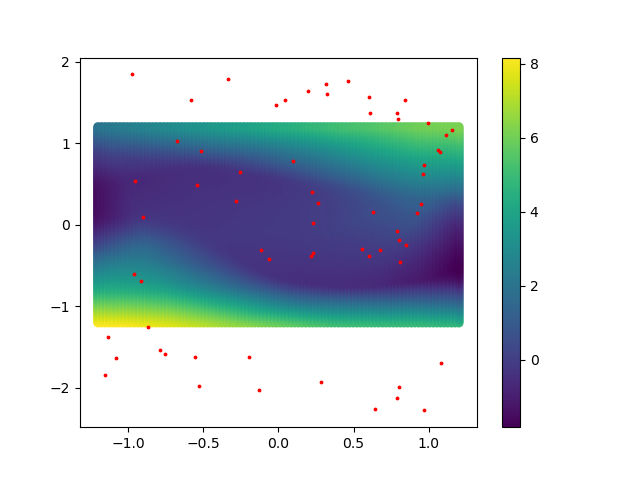
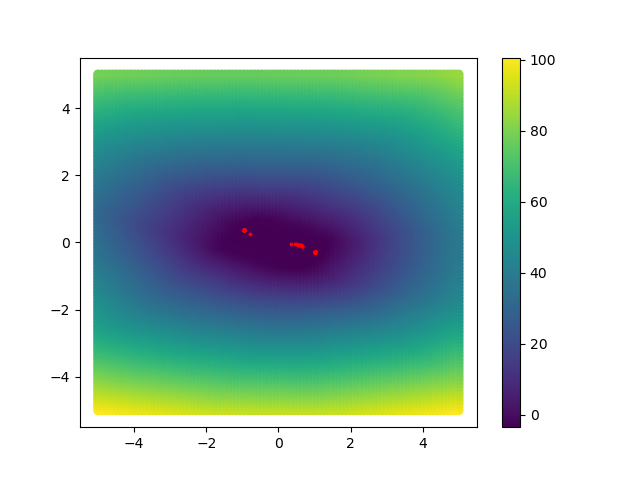
minor changes

diff --git a/main.py b/main.py
@@ -195,8 +195,8 @@ def train_classifier():
     model = MoonClassifier()
     data_provider = MoonContrastiveDataProvider()
     optimizer = torch.optim.Adam(model.parameters(), lr=1e-5)
-    num_timesteps = 50000
-    ckpt_path = Path("classifier_contrastive.pt")
+    num_timesteps = 100000
+    ckpt_path = Path(f"classifier_contrastive_{num_timesteps}.pt")
     if ckpt_path.exists():
         model.load_state_dict(torch.load(ckpt_path))
     else:
@@ -263,7 +263,7 @@ def cond_sample():
 def logit_search_sample():
     # Load classifier
     device = "cpu"
-    ckpt_path = Path("classifier_contrastive.pt")
+    ckpt_path = Path(f"classifier_contrastive_10000.pt")
     classifier = MoonClassifier().to(device)
     classifier.load_state_dict(torch.load(ckpt_path))
     # perform gradient ascent on the logit
@@ -275,15 +275,15 @@ def logit_search_sample():
         jacobian = jacobian_fn_vmap(points)
         return jacobian
 
-    alpha = 0.0001
-    x = np.random.uniform(size=(batch_size, 2), low=-1.2, high=1.2)
+    alpha = 0.001
+    x = np.random.uniform(size=(batch_size, 2), low=-5, high=5)
     x = torch.tensor(x, dtype=torch.float32, device=device, requires_grad=True)
-    for i in range(1000):
+    for i in range(10000):
         grad = batched_jacobian(x).squeeze(1)
-        x = x + alpha * grad
+        x = x - alpha * grad
     # plot logit landscape on a grid
     n_points_grid = 100
-    grid_x, grid_y = torch.meshgrid(torch.linspace(-1.2, 1.2, n_points_grid), torch.linspace(-1.2, 1.2, n_points_grid))
+    grid_x, grid_y = torch.meshgrid(torch.linspace(-5, 5, n_points_grid), torch.linspace(-5, 5, n_points_grid))
     grid_points = torch.cat([grid_x.reshape(-1, 1), grid_y.reshape(-1, 1)], dim=1)
     logits_grid = classifier(grid_points).detach().numpy()
     plt.figure()
@@ -294,4 +294,3 @@ def logit_search_sample():
 
 if __name__ == '__main__':
     train_classifier()
-    logit_search_sample()
